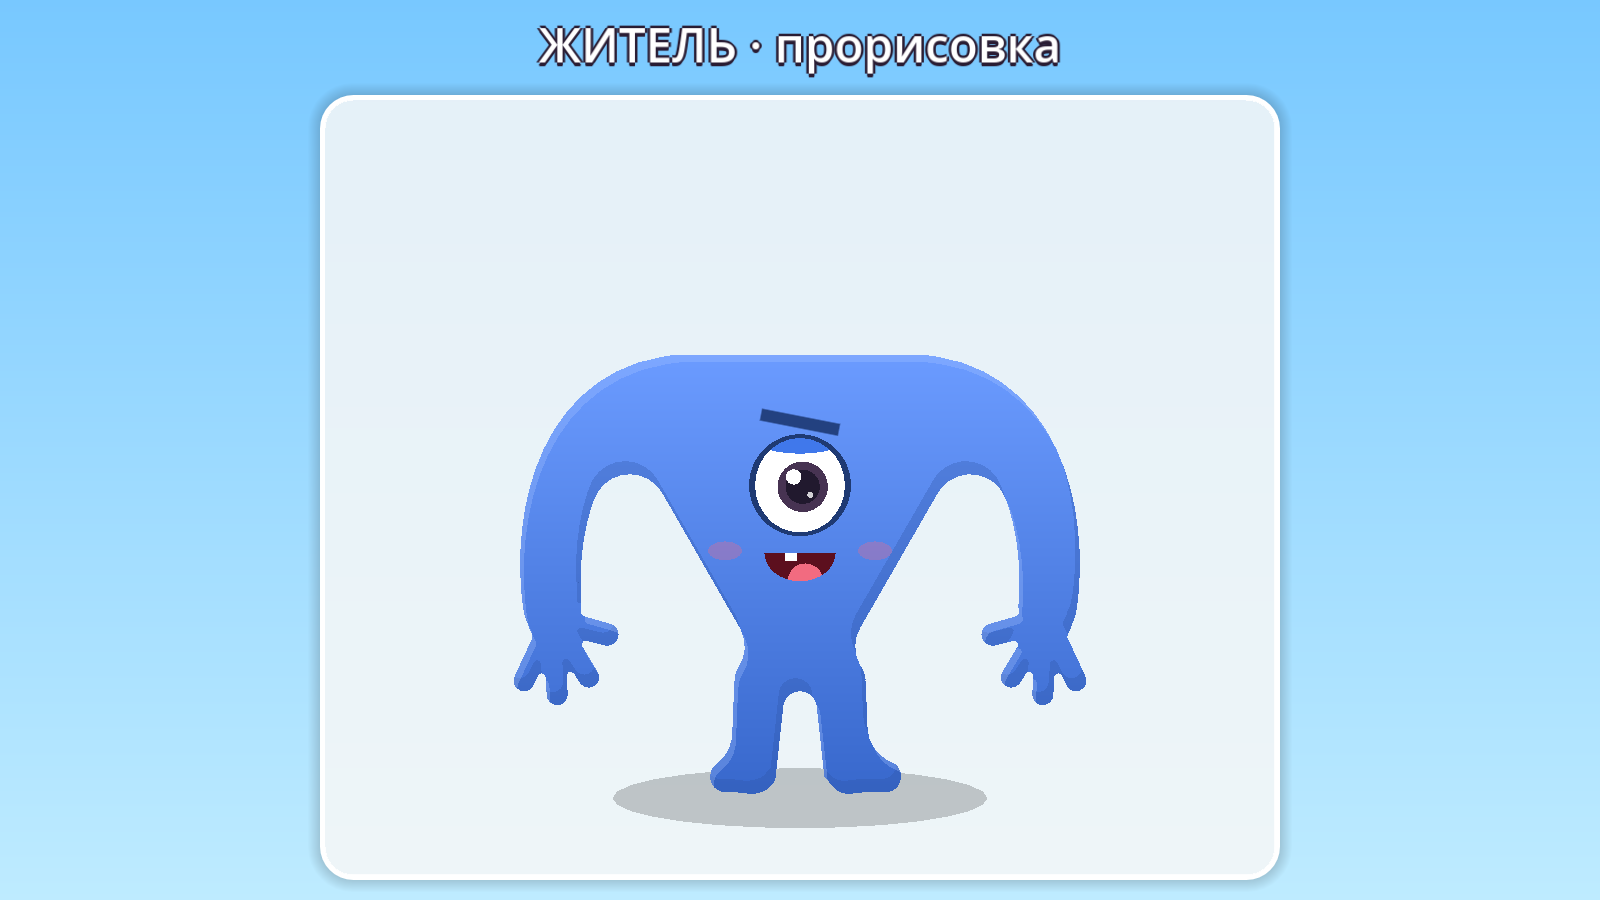
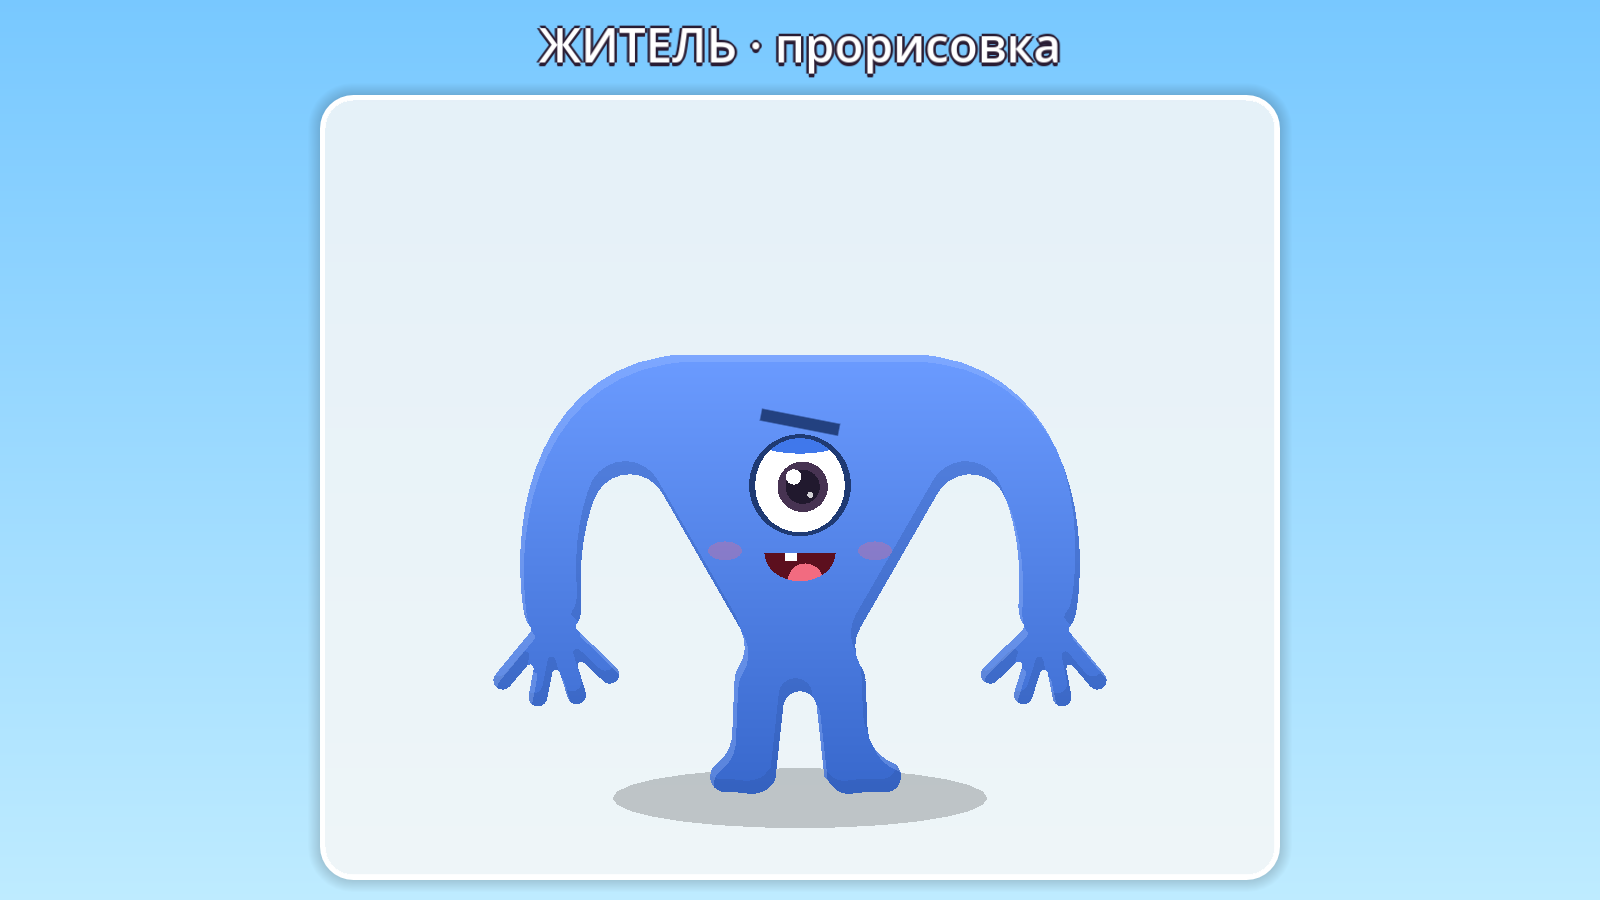
Житель: 4 одинаковых пальца веером, без большого
Claude-Session: https://claude.ai/code/session_016LhimkttaYpRVNZ3oj9mAA

Changed region(s): [[0.5938, 0.6844, 0.6875, 0.7778], [0.3125, 0.6844, 0.4062, 0.7778]]

diff --git a/docs/GDD.md b/docs/GDD.md
@@ -174,7 +174,7 @@
 - Без головы: глаза и рот посреди туловища (лицо небольшое). Туловище широкое, три формы:
   перевёрнутый треугольник (широкий верх, острие внизу), квадрат, круг.
 - Руки идут от самого верха туловища, длинные; стыки рук и ног с туловищем плавные, контур
-  одной линией. Обычно 4 пальца (три и большой), пальцы тонкие, растопыренные.
+  одной линией. Обычно 4 одинаковых пальца ровным веером, без большого.
 - Цвет — любой RGB, при рождении смешивается в разных пропорциях (по кругу оттенков OKHSL,
   а не в RGB — дети остаются яркими), бывает в одного из родителей или в бабушку/дедушку
   (скрытая копия гена).
